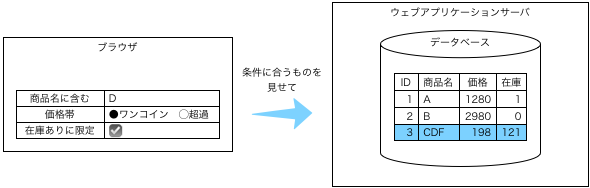
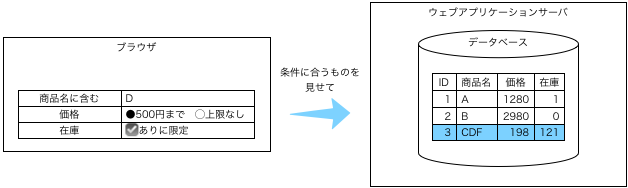
pattern5

diff --git a/docs/pattern-detail.html b/docs/pattern-detail.html
@@ -1,0 +1,32 @@
+<!DOCTYPE html>
+<html lang="ja">
+  <head>
+    <meta charset="UTF-8" />
+    <link rel='stylesheet' href='style.css' />
+    <title>詳細検索</title>
+  </head>
+  <body>
+    <form action="pattern-detail.php" method="get">
+      <table>
+        <tr>
+          <th>商品名に含む</th>
+          <td><input name="varcharA" type="text" value="D"/></td>
+        </tr>
+        <tr>
+          <th>価格</th>
+          <td>
+            <label><input name="price" type="radio" value="500" checked/>500円まで</label>
+            <label><input name="price" type="radio" value="100000000"/>上限なし</label>
+          </td>
+        </tr>
+        <tr>
+          <th>在庫</th>
+          <td><label><input name="instock" type="checkbox" checked/>ありに限定</label>
+          </td>
+        </tr>
+      </table>
+      <input type="submit" value="送信" />
+      <input type="reset" value="リセット" />
+    </form>
+  </body>
+</html>

diff --git a/docs/pattern-detail.php b/docs/pattern-detail.php
@@ -1,0 +1,61 @@
+<!DOCTYPE html>
+<html lang="ja">
+  <head>
+    <meta charset="UTF-8" />
+    <link rel='stylesheet' href='style.css' />
+    <title>詳細検索</title>
+  </head>
+  <body>
+
+<?php
+$varcharA = $_GET['varcharA'];
+$price = $_GET['price'];
+$instock = isset($_GET['instock']) ? 0 : -1;
+
+echo '送信されたデータ：<table>' .
+     "<tr><th>varcharA</th><td>{$varcharA}</td></tr>" .
+     "<tr><th>price</th><td>{$price}</td></tr>" .
+     "<tr><th>instock</th><td>{$instock}</td></tr>" .
+     '</table>';
+?>
+
+<table>
+<caption>検索結果</caption>
+  <tr>
+    <th>ID</th>
+    <th>商品名</th>
+    <th>価格</th>
+    <th>在庫</th>
+  </tr>
+<?php
+require 'db.php';                               # 接続
+# SQLが長いので，ヒアドキュメントという記法で書く（EOMからEOMまでが文字列）
+$sql = <<< EOM
+select * from tableA
+  where varcharA like :varcharA
+    and intA <= :price
+    and intB > :instock
+EOM;
+$prepare = $db->prepare($sql);                  # 準備
+$prepare->bindValue(':varcharA', "%{$varcharA}%", PDO::PARAM_STR);
+$prepare->bindValue(':price', $price, PDO::PARAM_STR);
+$prepare->bindValue(':instock', $instock, PDO::PARAM_STR);
+$prepare->execute();                            # 実行
+$result = $prepare->fetchAll(PDO::FETCH_ASSOC); # 結果の取得
+
+foreach ($result as $row) {
+  $id       = h($row['id']);
+  $varcharA = h($row['varcharA']);
+  $intA     = h($row['intA']);
+  $intB     = h($row['intB']);
+  echo '<tr>' .
+    "<td>{$id}</td>".
+    "<td>{$varcharA}</td>".
+    "<td>{$intA}</td>".
+    "<td>{$intB}</td>".
+    '</tr>';
+}
+?>
+</table>
+  </body>
+</html>

diff --git a/docs/pattern-table3.php b/docs/pattern-table3.php
@@ -3,11 +3,12 @@
   <head>
     <meta charset="UTF-8" />
     <link rel='stylesheet' href='style.css' />
-    <title>全データ表示（その2）</title>
+    <title>全データ表示（その3）</title>
   </head>
   <body>
 
-  <table>
+<table>
+  <caption>全データ</caption>
   <tr>
     <th>ID</th>
     <th>商品名</th>

diff --git a/docs/pattern-table2.php b/docs/pattern-table2.php
@@ -7,7 +7,8 @@
   </head>
   <body>
 
-  <table>
+<table>
+  <caption>全データ</caption>
   <tr>
     <th>ID</th>
     <th>商品名</th>

diff --git a/docs/pattern-detail.md b/docs/pattern-detail.md
@@ -1,0 +1,140 @@
+# 詳細検索（実装）
+
+文字列，ラジオボタン，チェックボックスを組み合わせた検索フォームを作ります．
+
+![](images/pattern5.png)
+
+## フォームの作成
+
+[データの追加（実装）](pattern-post.md)をまねて，詳細検索のためのフォームを作ります．
+
+```html
+<form action="pattern-detail.php" method="get">
+  <table>
+    <tr>
+      <th>商品名に含む</th>
+      <td><input name="varcharA" type="text" value="D"/></td>
+    </tr>
+    <tr>
+      <th>価格</th>
+      <td>
+        <label><input name="price" type="radio" value="500" checked/>500円まで</label>
+        <label><input name="price" type="radio" value="100000000"/>上限なし</label>
+      </td>
+    </tr>
+    <tr>
+      <th>在庫</th>
+      <td><label><input name="instock" type="checkbox" checked/>ありに限定</label>
+      </td>
+    </tr>
+  </table>
+  <input type="submit" value="送信" />
+  <input type="reset" value="リセット" />
+</form>
+```
+
+form要素のmethod属性は`get`です．厳密な区別はないのですが，データを取得するときは`get`，データを追加（更新）するときは`post`です．
+
+補足：あとで楽をするためにちょっと頭を使っていて，価格の「上限なし」を選んだときに，大きい値（1億円）を送るようにしています．
+そうしておけば，価格の条件をいつも「`intA >= 送信された値`」と書けるわけです．
+
+**上のフォームを含む[`pattern-detail.html`](pattern-detail.html)を作り，http://localhost/pattern-detail.html で確認しましょう．**
+
+データを入れて，送信ボタンを押してみます．
+サーバ側（`pattern-detail.php`）をまだ作っていないのでエラーになりますが，URLの`?`以降がこんな感じになるはずです．
+
+```
+?varcharA=D&price=500&instock=on
+```
+
+整理します．
+
+キー|値
+--|--
+varcharA|D
+price|500
+instock|on
+
+「キー」はinput要素のname属性の値です．
+勝手に決めていいのですが，わかりやすいものにしましょう．
+
+「値」はフォームに入力されたデータです．
+
+価格の「上限なし」を選ぶと値が「0」になるようにしています．（ちょっとわかりにくいのですが，コードを単純にするためです．）
+
+**フォームに入力するデータを変えたときの，URLの変化を確かめてください．**
+
+## 送信されたデータの扱い
+
+フォームから送信されたデータ（検索条件）を，サーバ側で受け取ります．
+
+`$_POST[キー]`で値を取り出します．
+
+補足：在庫ありに限定するかどうか（キーはinstock）の扱いだけ他と違っているのは，チェックをしなかった場合には，このキー自体がなくなるからです．
+ですから，キーがあるなら0，なければ-1としています．
+楽をするためにちょっと頭を使っていて，こういう数値に置き換えておけば，在庫についての条件を，いつも「`intB > 値`」と書けます．在庫ありに限定するなら「`intB > 0`」，限定しないなら「`intB > -1`（常に真）」というわけです．
+
+```php
+$varcharA = $_POST['varcharA'];
+$price = $_POST['price'];
+$instock = isset($_POST['instock']);
+
+echo '送信されたデータ：<table>' .
+     "<tr><th>varcharA</th><td>{$varcharA}</td></tr>" .
+     "<tr><th>price</th><td>{$price}</td></tr>" .
+     "<tr><th>instock</th><td>{$instock}</td></tr>" .
+     '</table>';
+```
+
+**このようなコードを含む`pattern-detail.php`を作り，http://localhost/pattern-detail.html からデータを送信してみましょう．**（この先も作ってしまっていますが[pattern-detail.php](pattern-detail.php)を使ってもかまいません．）
+
+## 実験用データの作成
+
+冒頭に掲載した絵と同じ状況になるように，次のSQL文を実行します．
+
+```sql
+delete from tableA;
+
+insert into tableA (id, varcharA, intA, intB) values
+(1, 'A', 1280, 1),
+(2, 'B', 2980, 0),
+(3, 'CDF', 198, 121);
+```
+
+## SQL文の作成
+
+送信された条件で検索するSQL文はこんな感じです．
+
+```sql
+select * from tableA
+where varcharA like '%D%'
+  and intA <= 500
+  and intB > 0
+```
+
+**このSQLで結果が返ってくることを確かめてください．**
+
+[データベースの操作](sql.md)のC3の応用で，複数の条件を「`and`」でつないでいます．「XがYを含んでいる」というのは「`X like '%Y%'`」と書きます．`%`は「何でもいい」ということです．
+
+このSQL文をPHPのプログラムで作ります．
+そのためには，実行時に決まる部分を穴埋めにします．
+
+```sql
+select * from tableA
+where varcharA like 穴A
+  and intA <= 穴B
+  and intB > 穴C
+```
+
+これではかっこ悪いので，次のようにしましょう．
+
+```sql
+select * from tableA
+where varcharA like :varcharA
+  and intA <= :price
+  and intB > :instock
+```
+
+あとは，[特定のデータの表示（実装）](pattern-id.md)と同じです．
+
+**このようなコードを組み込んだ[pattern-detail.php](pattern-detail.php)を作り，http://localhost/pattern-detail.html からデータを送信してみましょう．**

diff --git a/docs/pattern-id.md b/docs/pattern-id.md
@@ -29,11 +29,24 @@ $id = $_GET['id']; # URLからIDを取得
 
 ### 2. SQLの実行
 
-テーブル`tableA`の全データを取り出すSQLは「`select * from tableA where id = 番号`」です（[データベースの操作](sql.md)のC3）．この番号の部分（コードの`:id`）に，URLから取り出したIDを埋め込みます．
+テーブル`tableA`の全データを取り出すSQLは「`select * from tableA where id = 番号`」です（[データベースの操作](sql.md)のC3）．
+この番号の部分は実行時に決まるので，穴埋めにします．
+
+```sql
+SELECT * FROM tableA where id=穴
+```
+
+ふつうは次のように書きます．
+
+```sql
+SELECT * FROM tableA where id=:id
+```
+
+こういう穴埋めSQLを使うプログラムは次のようになります．
 
 ```php
 require 'db.php';                                # 接続
-$sql = 'SELECT * FROM tableA where id=:id';      # SQL文
+$sql = 'SELECT * FROM tableA where id=:id';      # 穴埋めSQL文
 $prepare = $db->prepare($sql);                   # 準備
 $prepare->bindValue(':id', $id, PDO::PARAM_STR); # 番号の埋め込み
 $prepare->execute();                             # 実行

diff --git a/docs/sql.md b/docs/sql.md
@@ -111,8 +111,10 @@ MySQLのクライアントプログラムを起動し，次のコマンドを実
 
 ```bash
 c:
-/xampp/mysql/bin/mysql.exe -uroot
+/xampp/mysql/bin/mysql.exe -uroot --default-character-set=cp932
 ```
+
+補足：ASCIIしか使わないなら`--default-character-set=cp932`は不要です．Windows以外ではおそらく，`cp932`ではなく`utf8`です．
 
 次のようなエラーメッセージが表示されたら，XAMPP Control PanelでMySQLが動いていることを確認してください．
 

diff --git a/docs/pattern-table.md b/docs/pattern-table.md
@@ -110,6 +110,6 @@ foreach ($result as $row) {
 
 別のパターン（[特定のデータの表示（実装）](pattern-id.md)）を実装すると，結果をリンクにできます．
 
-[pattern-table3.php](pattern-table3.php)
+[`pattern-table3.php`](pattern-table3.php)
 
 [`pattern-table2.php`](pattern-table2.php)からの変更点は2箇所です．
